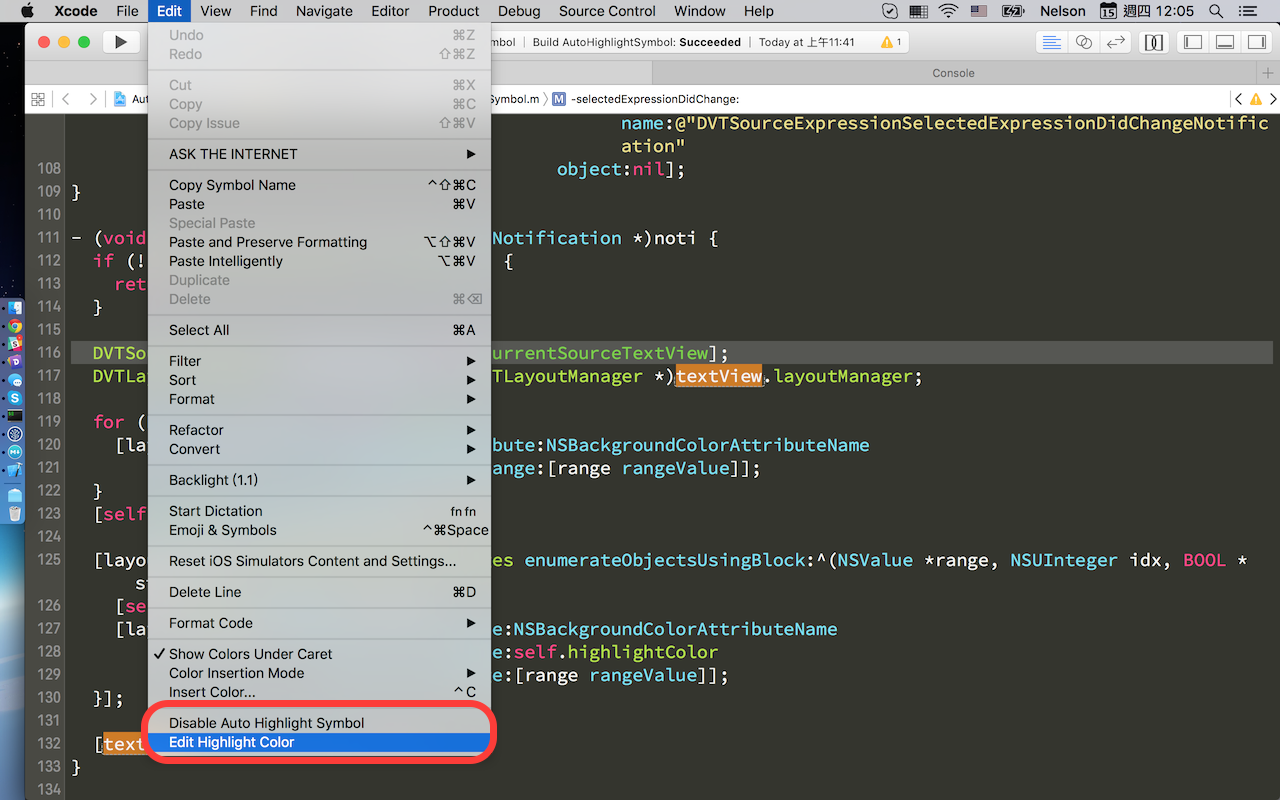
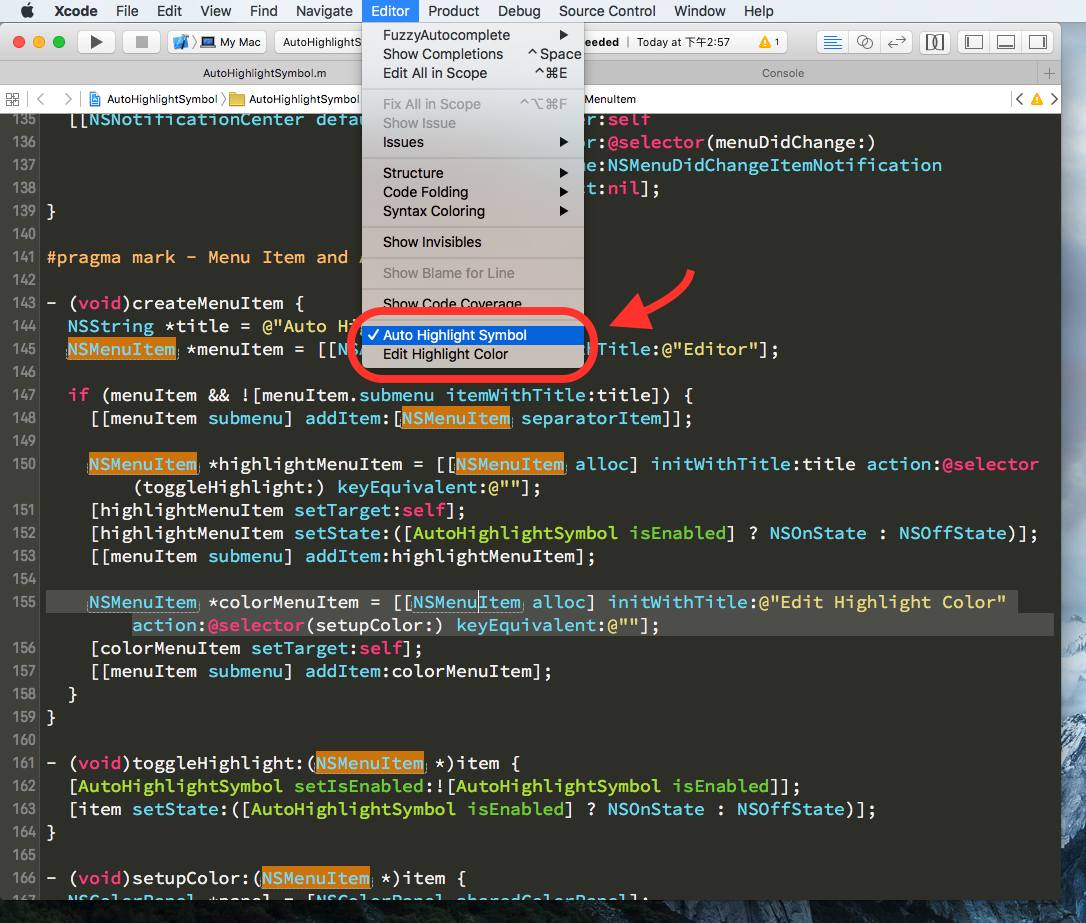
Move menu items from `Edit` to `Editor` subitems

diff --git a/AutoHighlightSymbol/AutoHighlightSymbol.m b/AutoHighlightSymbol/AutoHighlightSymbol.m
@@ -73,6 +73,10 @@ static NSString *const AHSHighlightColorKey = @"com.nelson.AutoHighlightSymbol.h
                                              selector:@selector(applicationDidFinishLaunching:)
                                                  name:NSApplicationDidFinishLaunchingNotification
                                                object:nil];
+    [[NSNotificationCenter defaultCenter] addObserver:self
+                                             selector:@selector(menuDidChange:)
+                                                 name:NSMenuDidChangeItemNotification
+                                               object:nil];
   }
   return self;
 }
@@ -87,20 +91,9 @@ static NSString *const AHSHighlightColorKey = @"com.nelson.AutoHighlightSymbol.h
 #pragma mark - Notification Handling
 
 - (void)applicationDidFinishLaunching:(NSNotification *)noti {
-  // Create menu items, initialize UI, etc.
-  NSMenuItem *menuItem = [[NSApp mainMenu] itemWithTitle:@"Edit"];
-  if (menuItem) {
-    [[menuItem submenu] addItem:[NSMenuItem separatorItem]];
-
-    NSString *title = [AutoHighlightSymbol isEnabled] ? @"Disable Auto Highlight Symbol" : @"Enable Auto Highlight Symbol";
-    NSMenuItem *highlightMenuItem = [[NSMenuItem alloc] initWithTitle:title action:@selector(toggleHighlight:) keyEquivalent:@""];
-    [highlightMenuItem setTarget:self];
-    [[menuItem submenu] addItem:highlightMenuItem];
-
-    NSMenuItem *colorMenuItem = [[NSMenuItem alloc] initWithTitle:@"Edit Highlight Color" action:@selector(setupColor:) keyEquivalent:@""];
-    [colorMenuItem setTarget:self];
-    [[menuItem submenu] addItem:colorMenuItem];
-  }
+  [[NSNotificationCenter defaultCenter] removeObserver:self
+                                                  name:NSApplicationDidFinishLaunchingNotification
+                                                object:nil];
 
   [[NSNotificationCenter defaultCenter] addObserver:self
                                            selector:@selector(selectedExpressionDidChange:)
@@ -132,11 +125,41 @@ static NSString *const AHSHighlightColorKey = @"com.nelson.AutoHighlightSymbol.h
   [textView setNeedsDisplay:YES];
 }
 
-#pragma mark - Menu Item Action
+// Code from https://github.com/FuzzyAutocomplete/FuzzyAutocompletePlugin/blob/master/FuzzyAutocomplete/FuzzyAutocomplete.m
+- (void)menuDidChange:(NSNotification *)notification {
+  [[NSNotificationCenter defaultCenter] removeObserver:self
+                                                  name:NSMenuDidChangeItemNotification
+                                                object:nil];
+  [self createMenuItem];
+  [[NSNotificationCenter defaultCenter] addObserver:self
+                                           selector:@selector(menuDidChange:)
+                                               name:NSMenuDidChangeItemNotification
+                                             object:nil];
+}
+
+#pragma mark - Menu Item and Action
+
+- (void)createMenuItem {
+  NSString *title = @"Auto Highlight Symbol";
+  NSMenuItem *menuItem = [[NSApp mainMenu] itemWithTitle:@"Editor"];
+
+  if (menuItem && ![menuItem.submenu itemWithTitle:title]) {
+    [[menuItem submenu] addItem:[NSMenuItem separatorItem]];
+
+    NSMenuItem *highlightMenuItem = [[NSMenuItem alloc] initWithTitle:title action:@selector(toggleHighlight:) keyEquivalent:@""];
+    [highlightMenuItem setTarget:self];
+    [highlightMenuItem setState:([AutoHighlightSymbol isEnabled] ? NSOnState : NSOffState)];
+    [[menuItem submenu] addItem:highlightMenuItem];
+
+    NSMenuItem *colorMenuItem = [[NSMenuItem alloc] initWithTitle:@"Edit Highlight Color" action:@selector(setupColor:) keyEquivalent:@""];
+    [colorMenuItem setTarget:self];
+    [[menuItem submenu] addItem:colorMenuItem];
+  }
+}
 
 - (void)toggleHighlight:(NSMenuItem *)item {
   [AutoHighlightSymbol setIsEnabled:![AutoHighlightSymbol isEnabled]];
-  item.title = [AutoHighlightSymbol isEnabled] ? @"Disable Auto Highlight Symbol" : @"Enable Auto Highlight Symbol";
+  [item setState:([AutoHighlightSymbol isEnabled] ? NSOnState : NSOffState)];
 }
 
 - (void)setupColor:(NSMenuItem *)item {

diff --git a/README.md b/README.md
@@ -26,7 +26,7 @@ Usage
 
 - It works with Xcode v7.0.1 (7A1001), read this [wiki document](https://github.com/chiahsien/AutoHighlightSymbol/wiki/Which-version-of-Xcode-does-it-support%3F) if you're using other version of Xcode.
 
-- After installation, you need to enable it from Xcode **[Edit] -> [Enable Auto Highlight Symbol]** menu.
+- After installation, you need to enable it from Xcode **[Editor] -> [Enable Auto Highlight Symbol]** menu.
 
 
 Todo
@@ -50,6 +50,7 @@ AutoHighlightSymbol cannot be done without these great plugins.
 - [SCXcodeMiniMap](https://github.com/stefanceriu/SCXcodeMiniMap)
 - [HighlightSelectedString](https://github.com/keepyounger/HighlightSelectedString)
 - [XcodeBoost](https://github.com/fortinmike/XcodeBoost)
+- [FuzzyAutocompletePlugin](https://github.com/FuzzyAutocomplete/FuzzyAutocompletePlugin)
 
 And these great articles.
 
